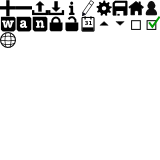
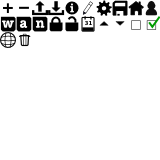
info modal works

diff --git a/public/stylesheets/inter.css b/public/stylesheets/inter.css
@@ -94,6 +94,9 @@ video {
 .icn.icn-upload {
   background-position: -32px 0;
 }
+.icn.icn-pencil {
+  background-position: -80px 0;
+}
 .icn.icn-preferences,
 .icn.icn-settings {
   background-position: -96px 0;
@@ -112,6 +115,15 @@ video {
 }
 .icn.icn-checkbox.checked {
   background-position: -144px -16px;
+}
+.icn.icn-web_element {
+  background-position: 0 -32px;
+}
+.icn.icn-trash {
+  background-position: -16px -32px;
+}
+.icn.icn-info {
+  background-position: -64px 0;
 }
 .icn.white {
   background-image: url("/images/inter-icons16x16w.png");
@@ -1020,17 +1032,10 @@ input[type=password]:hover {
   top: 100px;
 }
 .inter-tree.outer-decoration {
-  border: 1px solid #e0e0e0;
-  background-color: #f1f1f1;
-  background-image: -moz-linear-gradient(center top, #f1f1f1, #e5e5e5);
-  background-image: -webkit-gradient(linear, left top, left bottom, from(#f1f1f1), to(#e5e5e5));
-  background-repeat: repeat-x;
-  border-radius: 2px;
-  padding: 5px;
   margin: 5px;
 }
 .inter-tree ul {
-  padding: 5px;
+  padding: 0 5px;
   list-style: none;
 }
 .inter-tree ul li {
@@ -1055,6 +1060,7 @@ input[type=password]:hover {
   border: 1px solid #ddd;
   height: 15px;
   position: relative;
+  overflow: hidden;
 }
 .inter-tree ul li:hover {
   box-shadow: -1px 1px 2px rgba(0,0,0,0.3);
@@ -1087,7 +1093,7 @@ input[type=password]:hover {
   -o-transition-duration: 0.3s;
   -ms-transition-duration: 0.3s;
   transition-duration: 0.3s;
-  height: 50px;
+  height: 45px;
 }
 .inter-tree ul li .tree-trigger {
   cursor: pointer;
@@ -1112,15 +1118,73 @@ input[type=password]:hover {
   top: 11px;
   right: 8px;
 }
+.inter-tree ul li .tree-item-control {
+  margin-top: 12px;
+  text-align: right;
+}
+.inter-tree ul li .tree-item-control .btn {
+  padding: 6px 2px 0;
+  margin-right: 2px;
+  border: none;
+  background: none;
+  box-shadow: none;
+  opacity: 0.5;
+}
+.inter-tree ul li .tree-item-control .btn:hover {
+  opacity: 1;
+}
 .inter-tree .tree-controls {
-  height: 30px;
-  margin: 5px 10px;
+  height: 25px;
+  margin: 5px 10px 0;
 }
 .inter-tree .tree-controls .btn {
   margin-right: 5px;
+  background: none;
+  box-shadow: none;
+  border: none;
+  opacity: 0.5;
+}
+.inter-tree .tree-controls .btn:hover {
+  opacity: 1;
 }
 .second-sidebar {
   width: 25%;
+}
+#info-modal {
+  min-height: 300px;
+  width: 250px;
+  position: absolute;
+  border: 1px solid #ddd;
+  background-color: #f8f8f8;
+  padding: 10px;
+  box-shadow: -1px 1px 3px #ddd;
+}
+#info-modal-caret {
+  position: absolute;
+  height: 0;
+  width: 0;
+}
+#info-modal-caret .caret-inner {
+  border-color: transparent #f8f8f8 transparent transparent;
+  border-style: solid;
+  border-width: 10px;
+  height: 0;
+  width: 0;
+  position: absolute;
+  top: 1px;
+  left: 2px;
+  z-index: 102;
+}
+#info-modal-caret .caret-outer {
+  border-color: transparent #ddd transparent transparent;
+  border-style: solid;
+  border-width: 11px;
+  height: 0;
+  width: 0;
+  position: absolute;
+  top: 0;
+  z-index: 101;
+  left: 0;
 }
 .notice-wrap {
   position: fixed;

diff --git a/public/javascripts/inter.js b/public/javascripts/inter.js
@@ -213,7 +213,7 @@ $(function(){
 
   };
 
-  $.i18n.init({ dynamicLoad: true, useLocalStorage: false, fallbackLng: 'de', resGetPath: inter.host.master+'/translations.json?lng=__lng__&ns=__ns__' });
+  $.i18n.init({ dynamicLoad: true, useLocalStorage: false, fallbackLng: 'de', load: 'unspecific', resGetPath: inter.host.master+'/translations.json?lng=__lng__&ns=__ns__' });
 
   $('.live-tipsy').tipsy({live: true});
   $('.live-tipsy-e').tipsy({live: true, gravity: 'e'});
@@ -237,9 +237,16 @@ $(function(){
   $(document).on('click', function(e){
     if( !$(e.target).closest('.dropdown').length )
       $('.dropdown-menu').hide();
+    if( !$(e.target).hasClass('js-remove-on-click-trigger') &&
+        !$(e.target).closest('.js-remove-on-click-trigger').length &&
+        !$(e.target).hasClass('js-remove-on-click') && 
+        !$(e.target).closest('.js-remove-on-click').length )
+      $('.js-remove-on-click').remove();
+    $('.tipsy').remove();
   }).on('keydown', function(e){
-    if( e.keyCode === 27 ) // ESC
+    if( e.keyCode === 27 ){ // ESC
       inter.modal('close');
+    }
   });
 
   $('.js-get-focus:first').focus();

diff --git a/lib/plugins/documents/index.js b/lib/plugins/documents/index.js
@@ -24,6 +24,14 @@ module.exports = exports = {
 
     });
 
+    app.get( '/documents/:id:format?', auth.check, getDocument, function( req, res ){
+      res.format({
+        json: function(){
+          res.json( req.doc );
+        }
+      });
+    });
+
     app.delete('/documents/:id', auth.check, function( req, res ){
 
       konter.firstAnyWithUser( res.locals.currentUser, { _id: konter.mongoose.Types.ObjectId( req.params.id ) }, function( err, doc ){
@@ -38,7 +46,6 @@ module.exports = exports = {
           res.json( {flash: req.flash() } );
         } else
           doc.remove( function( err ){
-            console.log('removed');
             if( err )
               req.flash('error', req.i18n.t('removing.failed', {name: doc.name}));
             else
@@ -51,4 +58,12 @@ module.exports = exports = {
 
   }
 
+}
+
+function getDocument( req, res, next ){
+  konter.firstAnyWithUser( res.locals.currentUser, { 
+    _id: konter.mongoose.Types.ObjectId( req.params.id ) }, 
+    function( err, doc ){
+      req.doc = doc;
+  });
 }

diff --git a/lib/plugins/defaults/index.js b/lib/plugins/defaults/index.js
@@ -48,15 +48,16 @@ var defaultsPlugin = {
   routes: function( app ){
 
     app.get( '/translations.json', function( req, res ){
-      var name = req.query.lng;
+      var name = lang = req.query.lng;
       if( name.split(' ').length > 1 )
-        name = name.split(' ')[name.split(' ').length-1];
-      var tr = JSON.parse( fs.readFileSync( __dirname + '/../../../locales/'+name+'/translation.json' ) );
+        name = lang = name.split(' ')[name.split(' ').length-1];
+      var tr = {};
+      tr[lang] = {'translation': JSON.parse( fs.readFileSync( __dirname + '/../../../locales/'+name+'/translation.json' ) )};
       for( var i in inter.plugins)
         if( inter.plugins[i].translations ){
           var _tr = JSON.parse( fs.readFileSync( inter.plugins[i].translations+'/'+name+'/translation.json' ) );
           for( var j in _tr )
-            tr[j] = _tr[j];
+            tr[lang]['translation'][j] = _tr[j];
         }
       res.json( tr );
     });

diff --git a/lib/plugins/auth/index.js b/lib/plugins/auth/index.js
@@ -75,6 +75,25 @@ module.exports = exports = {
     });
   },
 
+  checkWithoutRedirect: function( req, res, next ){
+    User.findById( req.session.userId, function( err, user ){
+      if( err ) req.flash('error', err );
+      if( user ){
+        req.user = user;
+        if( user.lastRequest.createdAt.getTime() > moment().subtract('m', inter.config.session.timeout.mins ) ){
+          user.lastRequest.createdAt = new Date();
+          user.save( function( err ){
+            if( err ) req.flash('error', err );
+            res.locals.currentUser = user;
+            next();
+          })
+        } else
+          next();
+      } else
+        next();
+    });
+  },
+
   routes: function( app ){
 
     app.get('/login', function( req, res ){
